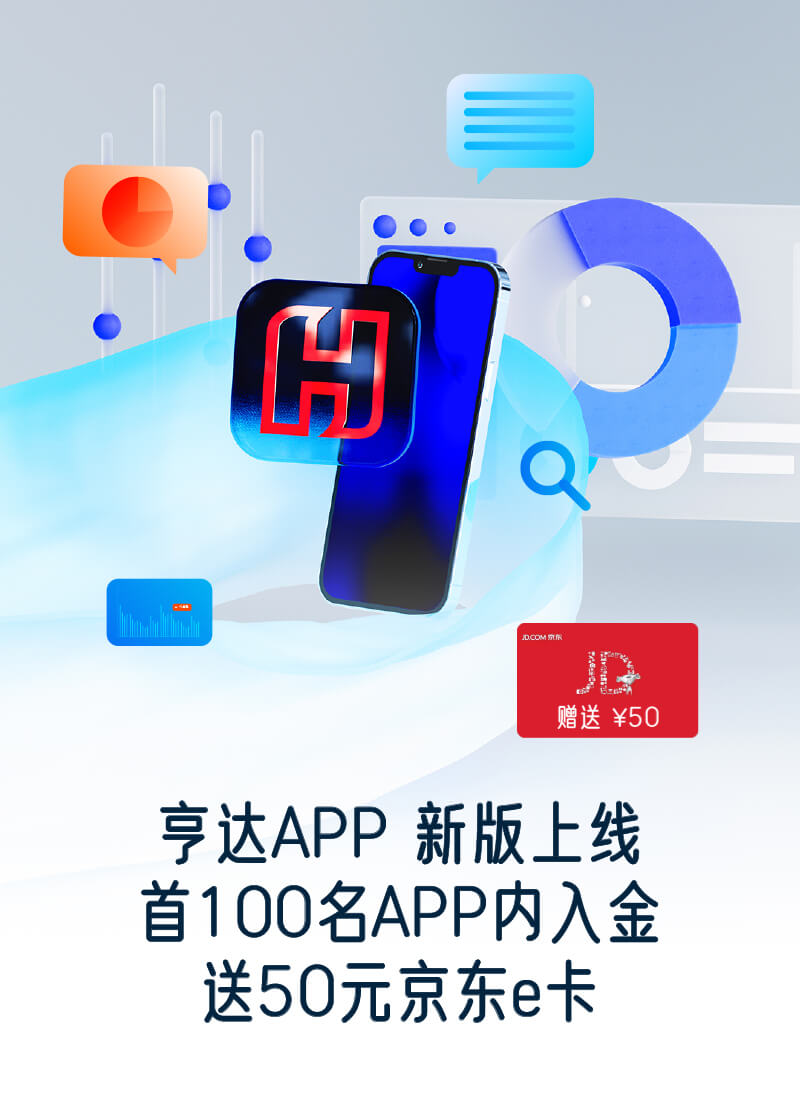
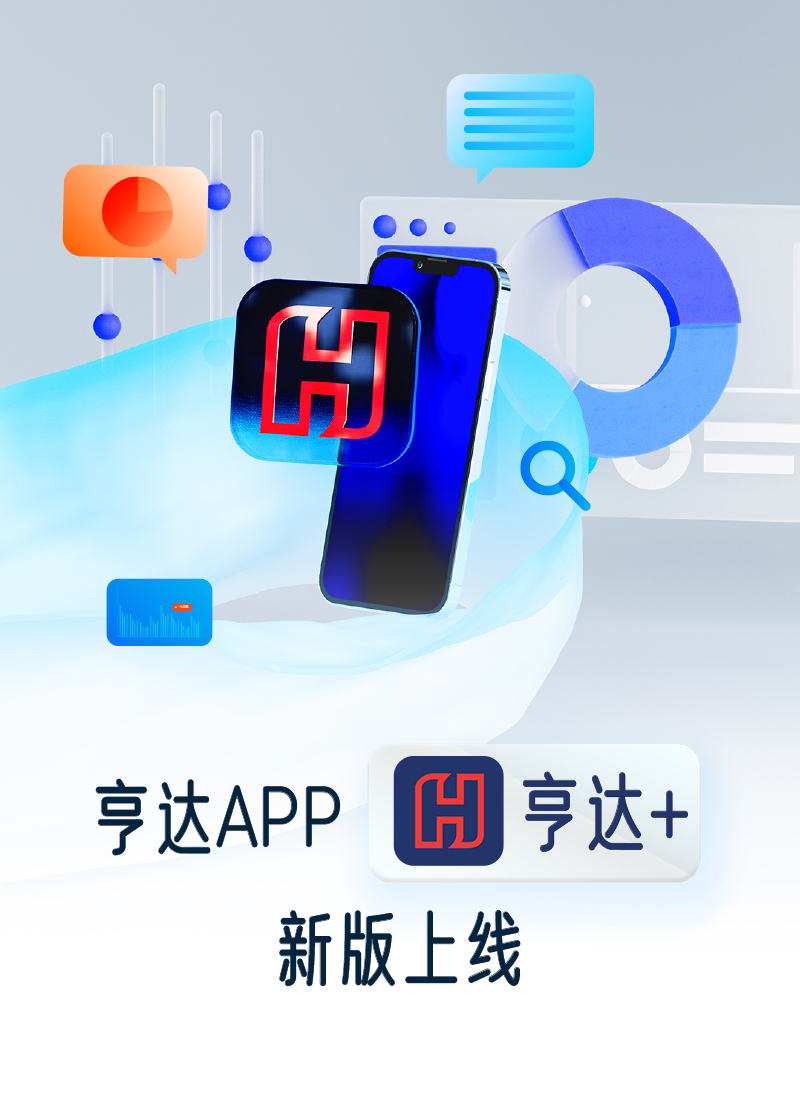
a
a

Changed region(s): [[0.125, 0.5514, 0.875, 0.9189], [0.3125, 0.3676, 0.5, 0.3982]]

diff --git a/index.html b/index.html
@@ -1,12 +1,11 @@
 <!DOCTYPE html>
-<html lang='sc'>
 
 <head>
     <meta charset="utf-8">
     <meta name="viewport" content="width=device-width, initial-scale=1, shrink-to-fit=no">
     <link rel='stylesheet' href='assets/css/bootstrap.min.css'>
     <link rel='stylesheet' href='assets/css/main.css'>
-    <title>亨达APP 新版上线 </title>
+    <title>亨达APP 新版上线</title>
 </head>
 
 <body>
@@ -27,6 +26,22 @@
     <!--banner-->
     <div class='banner'>
         <div class='index_banner'>
+        </div>
+    </div>
+
+    <!--download-->
+    <div class='download'>
+        <div class='container-sm'>
+            <div class='row'>
+                <div class='col-md-6 text-center'>
+                    <img src='assets/images/qr_android.png'>
+                    <a href='https://www.hantecfinancial.com/download/hantec-plus-ts-app-android.html'><img src='assets/images/btn_android.png'></a>
+                </div>
+                <div class='col-md-6 text-center'>
+                    <img src='assets/images/qr_ios.png'>
+                    <a href='https://apps.apple.com/hk/app/hantec-plus/id555236881'><img src='assets/images/btn_ios.png'></a>
+                </div>
+            </div>
         </div>
     </div>
 
@@ -54,20 +69,6 @@
                 </div>
                 <div class='col-6'>
                     <img src='assets/images/4b.png'>
-                </div>
-            </div>
-            <div class='row'>
-                <div class='col-12 text-center'>
-                    <img src="assets/images/f1.png" class='f1'>
-                </div>
-                <div class='col-12 text-center'>
-                    <img src="assets/images/f2.png" class='f2'>
-                </div>
-                <div class='col-12 text-center pc'>
-                    <img src="assets/images/f3.png" class='f3'>
-                </div>
-                <div class='col-12 text-center mob'>
-                    <img src="assets/images/f3m.png" class='f3'>
                 </div>
             </div>
         </div>

diff --git a/assets/css/main.css b/assets/css/main.css
@@ -60,7 +60,7 @@ a:hover {
     max-width: 1920px;
     margin: auto;
     height: 980px;
-    background: url(../images/banner.png) no-repeat top center;
+    background: url(../images/banner.jpg) no-repeat top center;
     background-size: auto 100%;
     position: relative;
     box-sizing: border-box;
@@ -92,6 +92,13 @@ a:hover {
 }
 
 
+/* download */
+
+.download {
+    margin-bottom: 80px;
+}
+
+
 /* campaign */
 
 .gift2 {
@@ -102,6 +109,10 @@ a:hover {
     max-width: 1000px;
 }
 
+.container-xm {
+    max-width: 600px;
+}
+
 .campaign {
     margin-bottom: 80px;
 }
@@ -110,6 +121,15 @@ a:hover {
 .f2,
 .f3 {
     margin: 20px 0;
+}
+
+
+/* TnC */
+
+.tnc {
+    padding: 60px 0;
+    background: #9A9A9A;
+    color: #fff;
 }
 
 
@@ -151,6 +171,9 @@ a:hover {
     }
     .mob {
         display: block;
+    }
+    .contact {
+        display: none;
     }
     .f2 {
         max-width: 150px;
